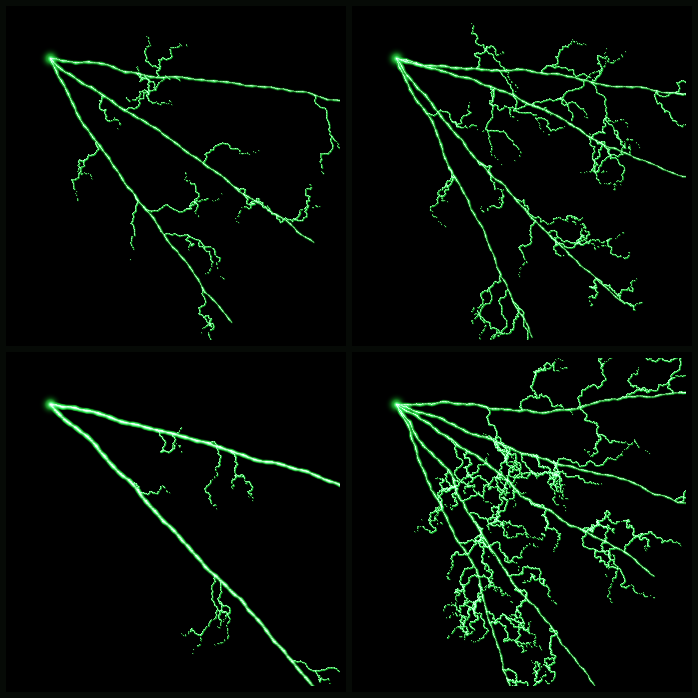
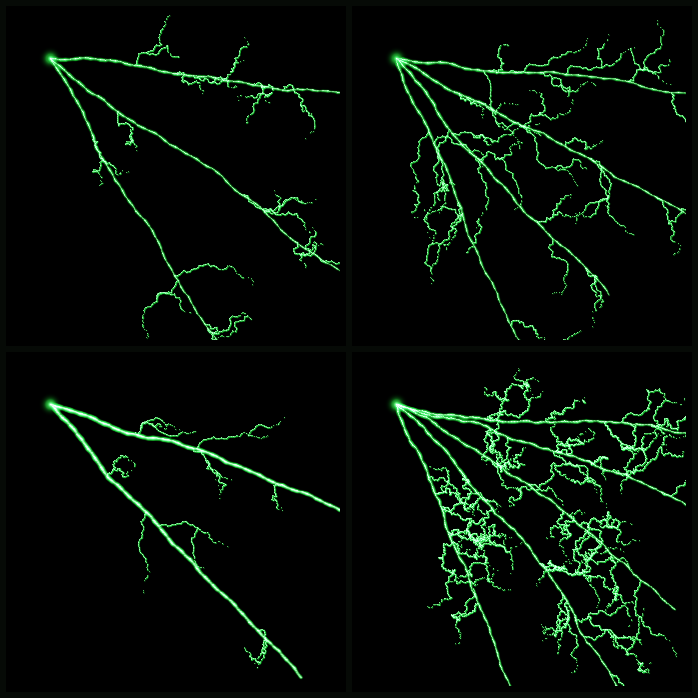
Green Fan: switch to snappy lightning-strike timing (snap in, flash, re-strike, fade, pause)

diff --git a/lightning-green-fan.html b/lightning-green-fan.html
@@ -80,7 +80,7 @@ function tendrils(poly, opt, len0){
 function makeStrike(opt){
   const out=new Uint8ClampedArray(N*4);
   const DIAG=Math.hypot(GW,GH);
-  let mainsPts=[], polys=[], tend=[], maxD=1, cyc0=null, lastGen=-1e9, phase=Math.random()*6.283;
+  let mainsPts=[], polys=[], tend=[], maxD=1, cyc0=null, lastGen=-1e9, struck=0, phase=Math.random()*6.283;
   function newStroke(){
     polys=[]; mainsPts=[]; maxD=1;
     for(let k=0;k<opt.mains;k++){
@@ -97,17 +97,20 @@ function makeStrike(opt){
   function regenTend(){ tend=[]; for(const poly of polys) tend=tend.concat(tendrils(poly,opt, Math.hypot(GW,GH)*0.5)); }
   return { out, advance(now){
     if(cyc0===null) cyc0=now;
-    let cyc=now-cyc0; if(cyc>=CYCLE){ cyc0=now; cyc=0; newStroke(); }
+    let cyc=now-cyc0; if(cyc>=CYCLE){ cyc0=now; cyc=0; struck=0; newStroke(); }
     if(mainsPts.length===0) newStroke();
     const p=cyc/CYCLE, t=now*0.001+phase;
-    // envelope: charge -> grow -> hold(crackle) -> fade
-    let front, fade=1, ball=0;
-    if(p<0.14){ ball=p/0.14; front=0; }
-    else if(p<0.44){ const u=(p-0.14)/0.30; front=(1-(1-u)*(1-u))*maxD*1.04; ball=1; }
-    else { front=maxD*1.04; ball=1; }
-    if(p>=0.5 && p<0.56 && lastGen!==-2){ newStroke(); lastGen=-2; }   // one quick re-strike (moves)
-    if(p<0.5||p>=0.56) lastGen=lastGen===-2?now:lastGen;
-    if(p>=0.78) fade=Math.max(0,1-(p-0.78)/0.22);
+    // STRIKE envelope: snap in instantly, flash, rapid re-strikes, fade, dark pause
+    const front=maxD*1.05;
+    const ST=[0.02,0.10,0.18];
+    let want=0; for(const s of ST) if(p>=s) want++;
+    while(struck<want){ newStroke(); struck++; }
+    const ball = p<0.02 ? p/0.02 : 1;
+    let fade=0, lastSt=-1; for(const s of ST) if(p>=s) lastSt=s;
+    if(lastSt>=0) fade=1.4*Math.exp(-(p-lastSt)/0.09);
+    if(p>=0.28 && p<0.50) fade=Math.max(fade, 0.34*(0.7+0.3*Math.sin(t*44)));
+    else if(p>=0.50 && p<0.64) fade=Math.max(0, 0.34*(1-(p-0.50)/0.14));
+    else if(p>=0.64) fade=0;
     acc.fill(0);
     // hot origin burst
     const bz=0.7+0.3*Math.sin(t*30);
